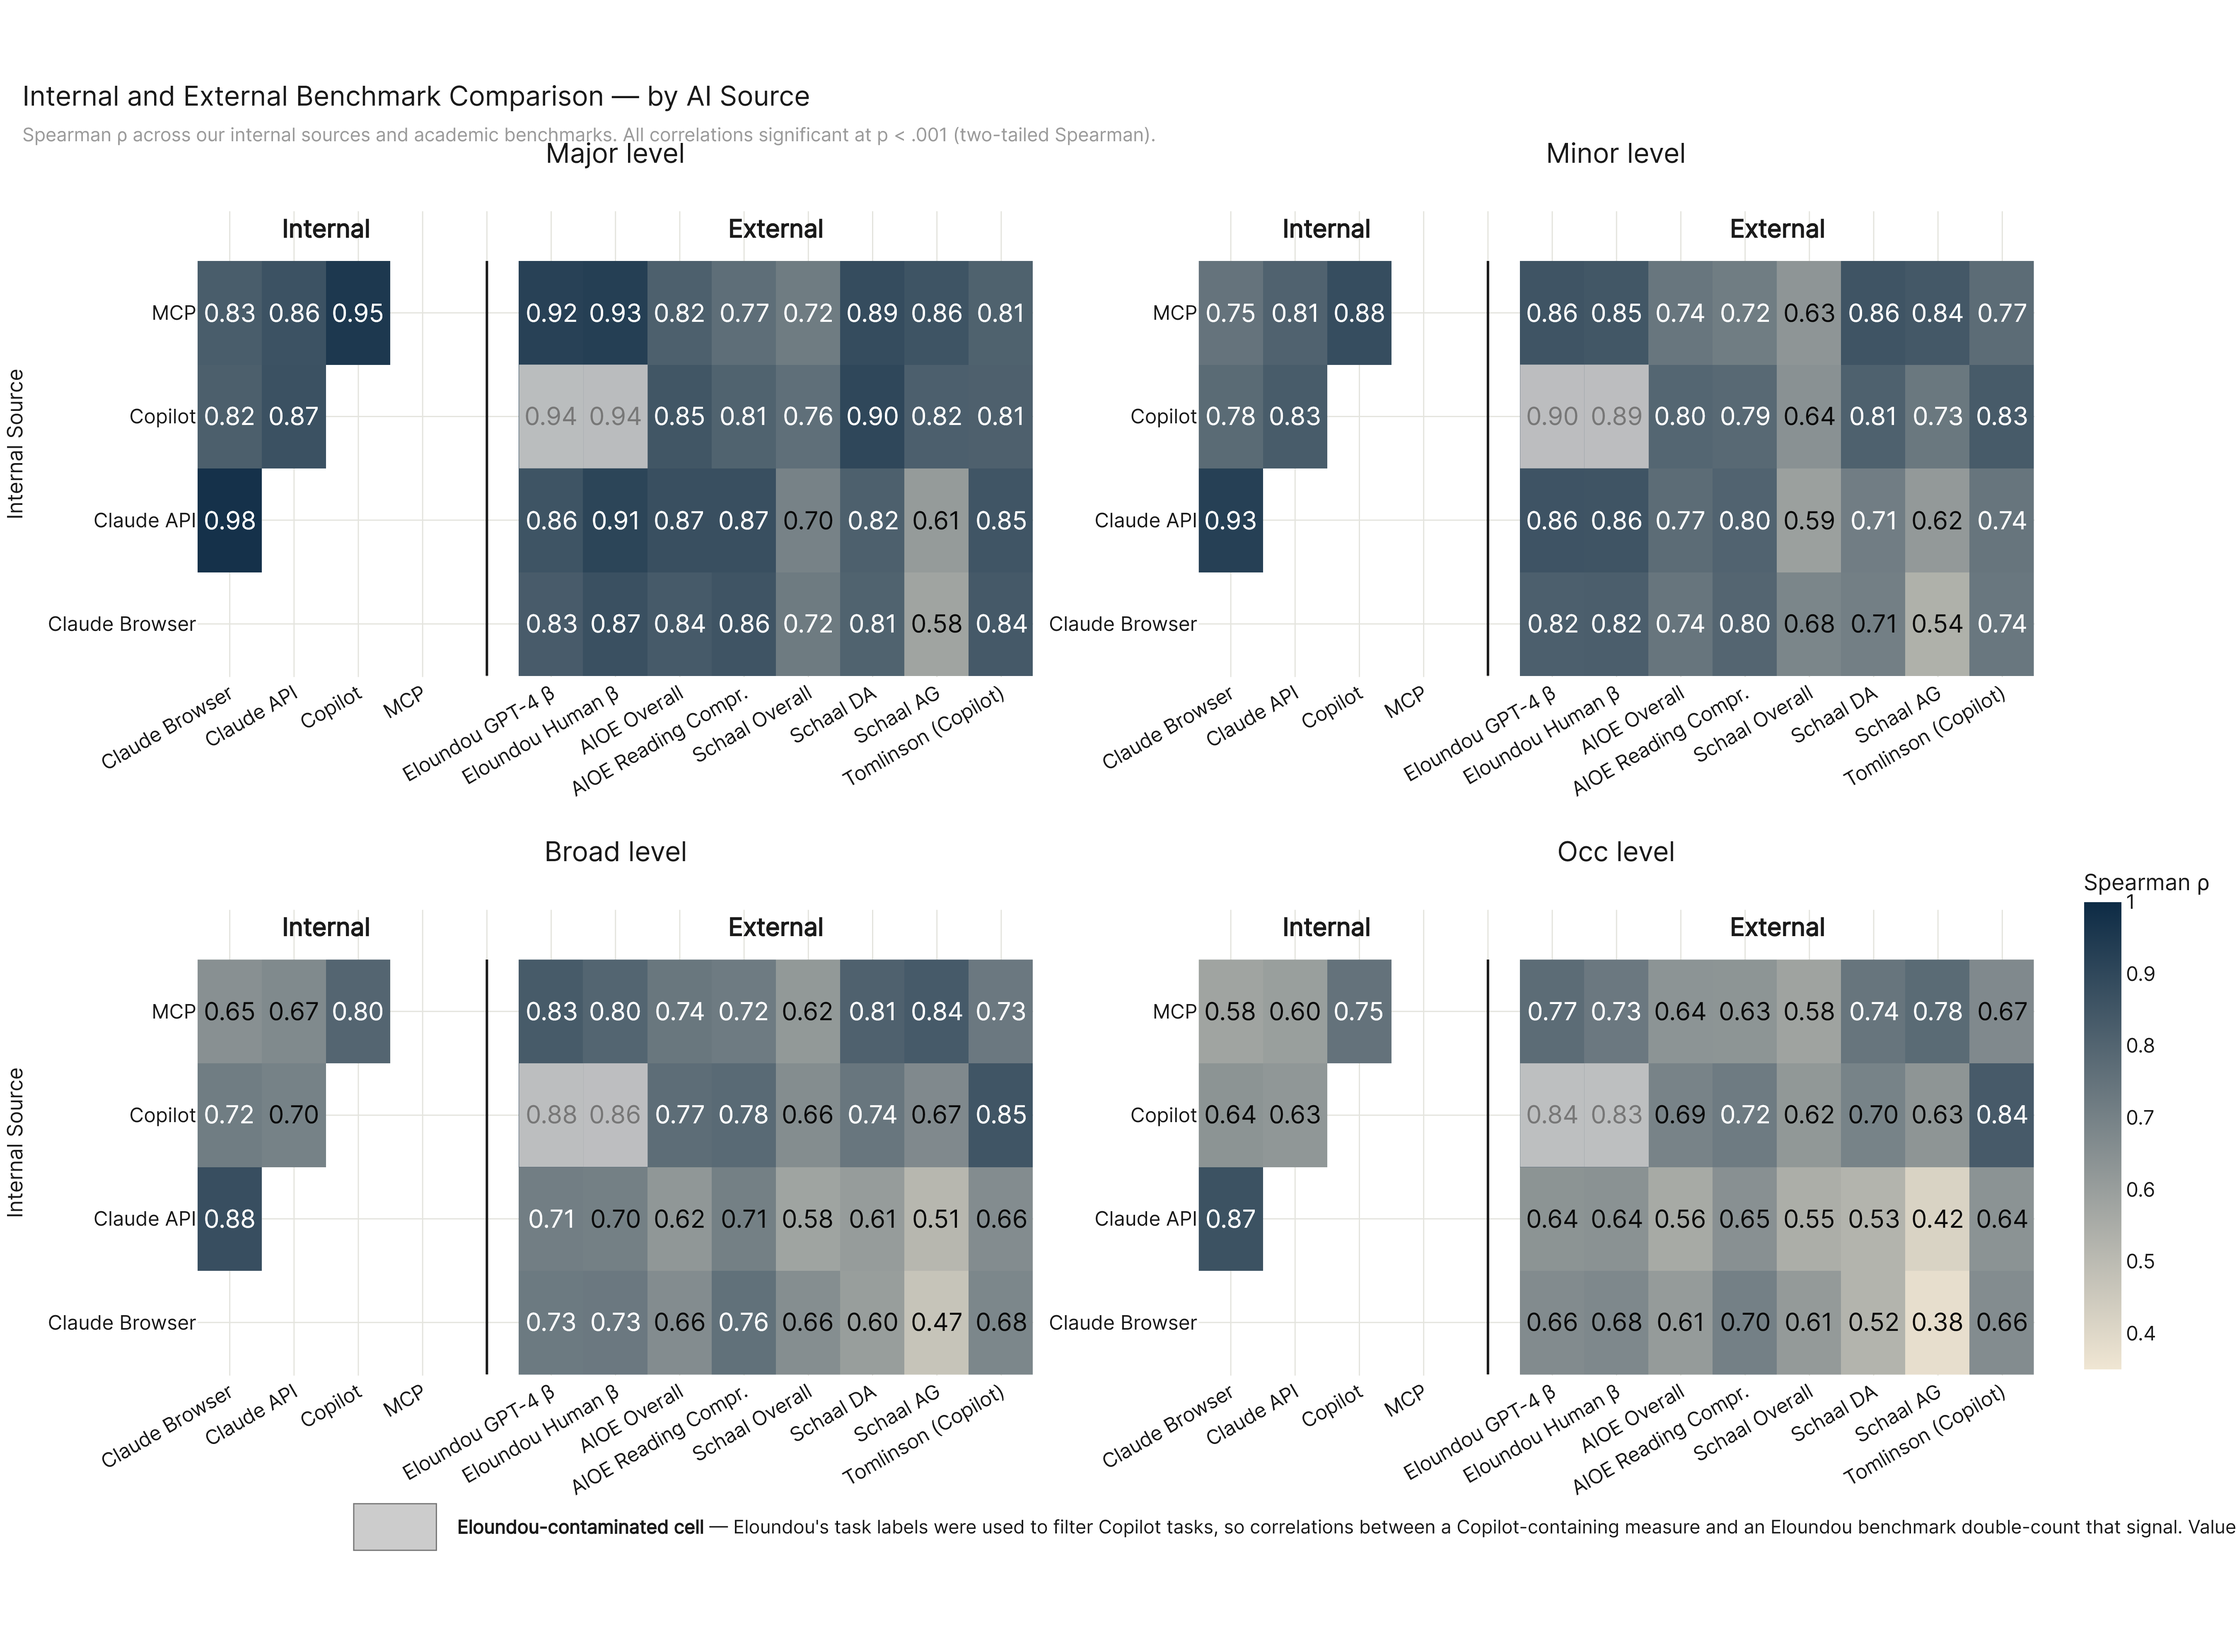
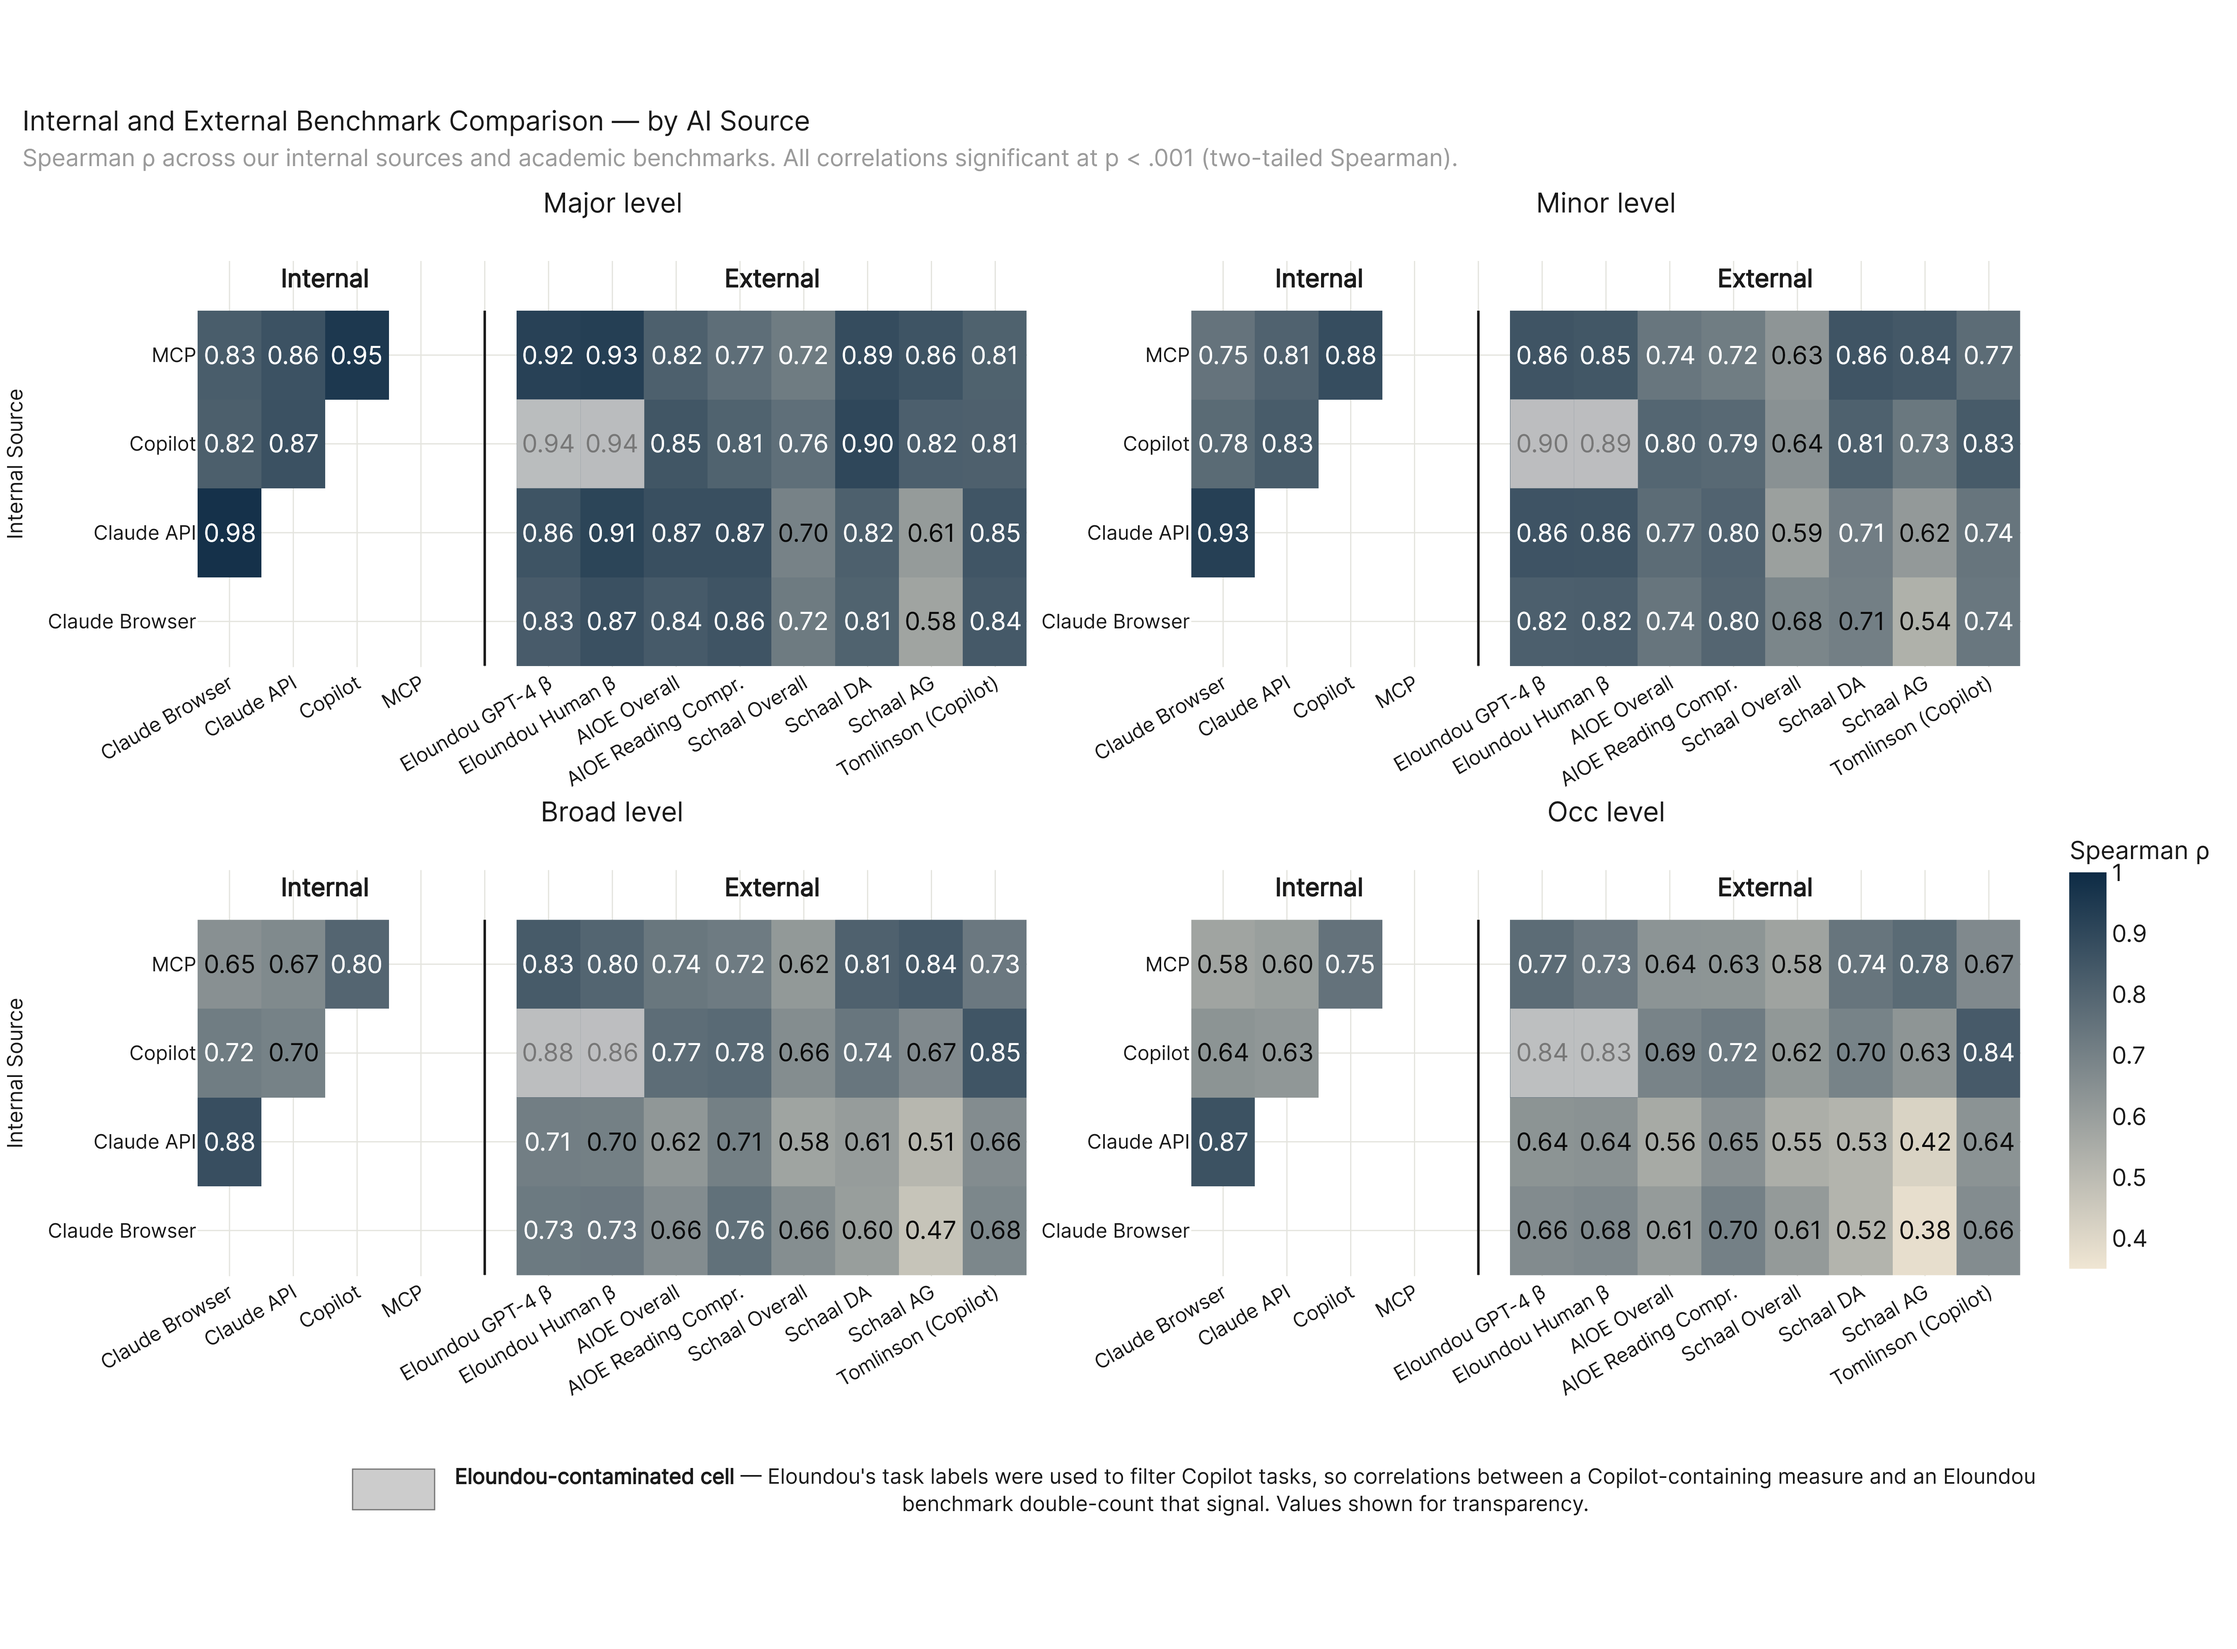
paper(part_1) + appendix: bigger subtitle/colorbar/legend on convergence + reorder configs
- Convergence charts: subtitle bumped to 19pt with extra top margin so it sits clear of the "Major level" subplot titles; colorbar tick + axis title bumped (TICK_FS+4 / LABEL_FS+4); contamination legend bumped to 17pt and pushed below the angled tick labels (sy=-0.23, b margin 220 -> 300); legend text wrapped to two lines so it stays inside the canvas.
- Reorder CONFIG_ORDER (all_confirmed, human_conversation, agentic_confirmed, agentic_ceiling, all_ceiling) so configs read in a single coherent gradient. Affects convergence_configs (chart row order) and overview.
- Appendix run.py: pick up assorted updates (overview ordering, helper additions).

diff --git a/analysis/exploratory/paperinfra_appendix/run.py b/analysis/exploratory/paperinfra_appendix/run.py
@@ -27,6 +27,7 @@ from plotly.subplots import make_subplots
 
 from analysis.config import (
     ANALYSIS_CONFIGS,
+    ANALYSIS_CONFIG_LABELS,
     ROOT,
     ensure_results_dir,
     get_pct_tasks_affected,
@@ -36,9 +37,20 @@ from analysis.utils import FONT_FAMILY, save_figure, save_csv
 from analysis.paper.paper_config import (
     PAPER_W, PAPER_H,
     TITLE_FS, SUBTITLE_FS, LABEL_FS, TICK_FS, ANNOT_FS, LEGEND_FS,
+    INSIDE_FS,
     METRIC_COLORS, PAPER_PALETTE,
+    fmt_workers, fmt_wages,
     style_paper_figure,
 )
+
+# Match paper part_1 ordering (top → bottom in chart = first → last here)
+OVERVIEW_CONFIG_ORDER: list[str] = [
+    "all_confirmed",
+    "human_conversation",
+    "agentic_confirmed",
+    "agentic_ceiling",
+    "all_ceiling",
+]
 
 HERE = Path(__file__).resolve().parent
 DATA_DIR = ROOT / "data"
@@ -1184,6 +1196,130 @@ def build_convergence_full(results: Path, figures: Path) -> None:
     print("  -> convergence_full.png")
 
 
+def _run_overview_config(dataset_name: str, use_auto_aug: bool) -> pd.DataFrame:
+    from backend.compute import get_group_data
+    config = {
+        "selected_datasets": [dataset_name],
+        "combine_method": "Average",
+        "method": "freq",
+        "use_auto_aug": use_auto_aug,
+        "physical_mode": "all",
+        "geo": "nat",
+        "agg_level": "occupation",
+        "sort_by": "% Tasks Affected",
+        "top_n": 9999,
+        "search_query": "",
+        "context_size": 3,
+    }
+    data = get_group_data(config)
+    assert data is not None, f"No data for {dataset_name}"
+    df: pd.DataFrame = data["df"]
+    group_col: str = data["group_col"]
+    return df.rename(columns={group_col: "category"})
+
+
+def _national_totals_emp_wages() -> tuple[float, float]:
+    from backend.compute import load_eco_raw
+    eco = load_eco_raw()
+    occ = eco.drop_duplicates(subset=["title_current"])
+    total_emp = float(occ["emp_tot_nat_2024"].sum())
+    total_wages = float((occ["emp_tot_nat_2024"] * occ["a_med_nat_2024"]).sum())
+    return total_emp, total_wages
+
+
+def build_overview_no_autoaug(results: Path, figures: Path) -> None:
+    """Variant of paper part_1 build_overview with auto_aug weighting off.
+    Every affected task contributes its full freq weight regardless of its
+    0–5 automatability rating. Same five configs, same layout."""
+    total_emp, total_wages = _national_totals_emp_wages()
+
+    rows: list[dict] = []
+    for key in OVERVIEW_CONFIG_ORDER:
+        ds = ANALYSIS_CONFIGS[key]
+        label = ANALYSIS_CONFIG_LABELS[key]
+        df = _run_overview_config(ds, use_auto_aug=False)
+
+        workers = float(df["workers_affected"].sum())
+        wages = float(df["wages_affected"].sum())
+        pct_tasks = float(df["pct_tasks_affected"].mean())
+        pct_workers = workers / total_emp * 100
+        pct_wages = wages / total_wages * 100
+
+        rows.append({
+            "config": key, "label": label,
+            "pct_tasks": round(pct_tasks, 1),
+            "pct_workers": round(pct_workers, 1),
+            "pct_wages": round(pct_wages, 1),
+            "workers": workers, "wages": wages,
+        })
+        print(f"  {label}: {pct_tasks:.1f}% tasks, "
+              f"{fmt_workers(workers)} ({pct_workers:.1f}%), "
+              f"{fmt_wages(wages)} ({pct_wages:.1f}%)")
+
+    save_csv(pd.DataFrame(rows), results / "overview_no_autoaug_totals.csv")
+
+    fig = go.Figure()
+    plot_rows = list(reversed(rows))
+    labels = [r["label"] for r in plot_rows]
+
+    metrics = [
+        ("pct_tasks",   "Tasks Exposed",
+         METRIC_COLORS["tasks"],
+         lambda r: f"{r['pct_tasks']:.1f}% tasks"),
+        ("pct_workers", "Workers Exposed (% of National Employment)",
+         METRIC_COLORS["workers"],
+         lambda r: f"{fmt_workers(r['workers'])} ({r['pct_workers']:.1f}%) workers"),
+        ("pct_wages",   "Wages Exposed (% of National Wages)",
+         METRIC_COLORS["wages"],
+         lambda r: f"{fmt_wages(r['wages'])} ({r['pct_wages']:.1f}%) wages"),
+    ]
+
+    for pct_key, name, color, fmt_fn in reversed(metrics):
+        fig.add_trace(go.Bar(
+            y=labels,
+            x=[r[pct_key] for r in plot_rows],
+            name=name,
+            orientation="h",
+            marker=dict(color=color, line=dict(width=0)),
+            text=[fmt_fn(r) for r in plot_rows],
+            textposition="inside",
+            insidetextanchor="middle",
+            textfont=dict(size=INSIDE_FS - 2, color="white", family=FONT_FAMILY),
+        ))
+
+    fig.update_layout(
+        barmode="group",
+        bargap=0.30,
+        bargroupgap=0.06,
+        legend=dict(traceorder="reversed"),
+        xaxis=dict(
+            title=dict(text="% of National Total", font=dict(size=LABEL_FS)),
+            range=[0, 65],
+            ticksuffix="%",
+        ),
+        yaxis=dict(
+            title=dict(text="Data Configuration", font=dict(size=LABEL_FS)),
+            tickfont=dict(size=LABEL_FS, family=FONT_FAMILY),
+        ),
+    )
+
+    style_paper_figure(
+        fig,
+        "AI Economic Exposure Across Data Configurations — No Auto-Aug Weighting",
+        subtitle=(
+            "Share of national tasks, employment, and wages exposed per AI "
+            "data configuration. Each affected task contributes its full "
+            "frequency weight regardless of its 0–5 automatability score."
+        ),
+        height=PAPER_H + 140,
+        margin=dict(l=20, r=60, t=140, b=110),
+    )
+
+    save_figure(fig, results / "figures" / "overview_no_autoaug.png")
+    _copy_fig(results, figures, "overview_no_autoaug.png")
+    print("  -> overview_no_autoaug.png")
+
+
 def _load_deepdive_csv(name: str) -> pd.DataFrame | None:
     """Pull a CSV from the deepdive folder if it exists; None if not."""
     src = (ROOT / "analysis" / "exploratory" / "deepdive_within_nonphys_signal"
@@ -1412,8 +1548,11 @@ def main() -> None:
     print("\n[4/5] major_de_nt_plane (forward-looking quadrant)")
     build_major_de_nt_plane(results, figures)
 
-    print("\n[5/5] convergence_full (sources + configs vs. external benchmarks)")
+    print("\n[5/6] convergence_full (sources + configs vs. external benchmarks)")
     build_convergence_full(results, figures)
+
+    print("\n[6/6] overview_no_autoaug (paper part_1 overview, no auto_aug)")
+    build_overview_no_autoaug(results, figures)
 
     print("\nWriting appendix_charts.md")
     write_markdown()

diff --git a/analysis/paper/results/part_1/run.py b/analysis/paper/results/part_1/run.py
@@ -44,10 +44,10 @@ DATA_DIR = ROOT / "data"
 # ── Config display order ─────────────────────────────────────────────────
 CONFIG_ORDER: list[str] = [
     "all_confirmed",
-    "all_ceiling",
     "human_conversation",
     "agentic_confirmed",
     "agentic_ceiling",
+    "all_ceiling",
 ]
 
 # ── Correlation sources ──────────────────────────────────────────────────
@@ -231,7 +231,7 @@ def build_overview(results: Path, figures: Path) -> None:
     # within each grouped cluster). Plotly grouped bars stack first-trace
     # at the bottom of the cluster, so add them in reverse.
     metrics = [
-        ("pct_tasks",   "% Tasks Exposed",
+        ("pct_tasks",   "Tasks Exposed",
          METRIC_COLORS["tasks"],
          lambda r: f"{r['pct_tasks']:.1f}% tasks"),
         ("pct_workers", "Workers Exposed (% of National Employment)",
@@ -571,9 +571,9 @@ def _build_convergence_chart(
                 hoverinfo="z",
                 colorbar=dict(
                     title=dict(text="Spearman ρ",
-                               font=dict(size=LABEL_FS + 2, family=FONT_FAMILY)),
+                               font=dict(size=LABEL_FS + 4, family=FONT_FAMILY)),
                     len=0.45, y=0.22,
-                    tickfont=dict(size=TICK_FS + 1, family=FONT_FAMILY),
+                    tickfont=dict(size=TICK_FS + 4, family=FONT_FAMILY),
                 ),
             ),
             row=row_pos, col=col_pos,
@@ -657,10 +657,22 @@ def _build_convergence_chart(
     style_paper_figure(
         fig,
         title,
-        subtitle=full_subtitle,
+        subtitle="",
         width=fig_width,
         height=fig_height,
-        margin=dict(l=20, r=120, t=170, b=220),
+        margin=dict(l=20, r=120, t=210, b=300),
+    )
+
+    # Re-attach subtitle at a bumped font size (the global SUBTITLE_FS=15
+    # reads small on this dense chart) and with a clear gap below it before
+    # the subplot titles start. The extra <br> adds vertical breathing room
+    # between subtitle and the "Major level" / "Minor level" subplot titles.
+    bumped_subtitle_fs = SUBTITLE_FS + 4   # 19pt
+    muted = PAPER_PALETTE["muted"]
+    fig.layout.title.text = (
+        f"{title}"
+        f"<br><span style='font-size:{bumped_subtitle_fs}px;color:{muted}'>"
+        f"{full_subtitle}</span>"
     )
 
     # Bump subplot titles up + embiggen so they sit clear of the
@@ -682,7 +694,7 @@ def _build_convergence_chart(
         # Swatch position (paper coords). Pushed well below the heatmap
         # so it sits clear of the angled tick labels.
         sx0, sx1 = 0.085, 0.130
-        sy0, sy1 = -0.150, -0.110
+        sy0, sy1 = -0.230, -0.190
         fig.add_shape(
             type="rect",
             xref="paper", yref="paper",
@@ -696,11 +708,11 @@ def _build_convergence_chart(
             x=sx1 + 0.010, y=(sy0 + sy1) / 2,
             xanchor="left", yanchor="middle",
             text=("<b>Eloundou-contaminated cell</b> — Eloundou's task labels "
-                  "were used to filter Copilot tasks, so correlations between "
-                  "a Copilot-containing measure and an Eloundou benchmark "
-                  "double-count that signal. Values shown for transparency."),
+                  "were used to filter Copilot tasks, so correlations between a "
+                  "Copilot-containing measure and an Eloundou<br>"
+                  "benchmark double-count that signal. Values shown for transparency."),
             showarrow=False,
-            font=dict(size=ANNOT_FS + 3, family=FONT_FAMILY,
+            font=dict(size=ANNOT_FS + 5, family=FONT_FAMILY,
                       color=PAPER_PALETTE["text"]),
         )
 
